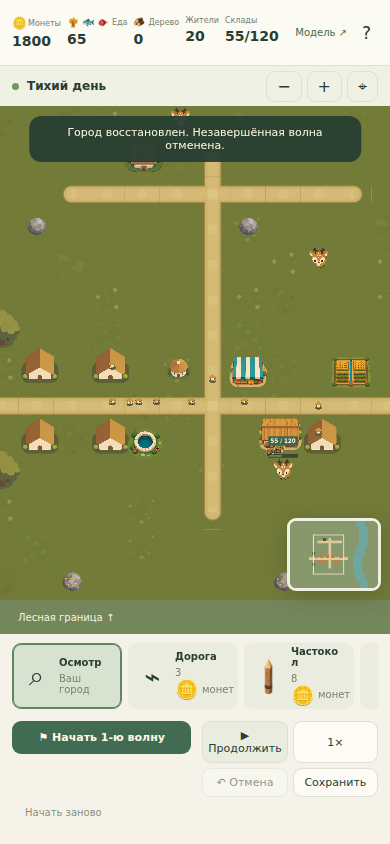
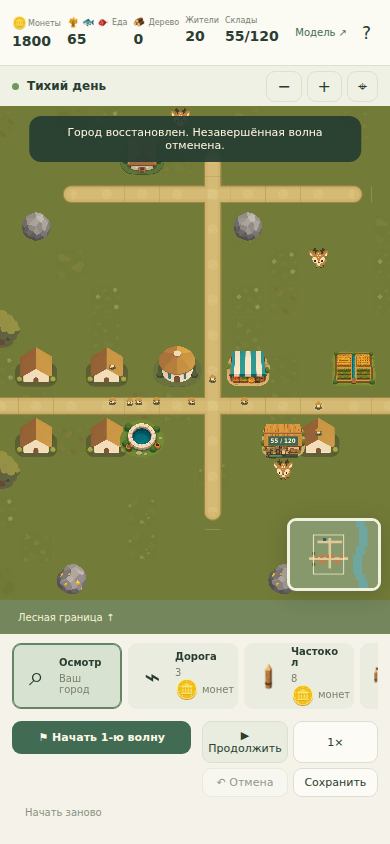
Сделать естественный контур берега и видимый земляной уступ

diff --git a/game.js b/game.js
@@ -45,8 +45,9 @@ city.onShot=(a,b,stats)=>this.shot(a,b,stats);city.onHit=b=>{const s=this.buildi
 }
 createTerrain(){const source=this.textures.get('terrain').getSourceImage(),size=source.width/4;this.waterTiles=[];this.plainGroundCount=0;this.landTileCount=0;this.groundVariants=new Set();const frameAt=(x,y)=>{const t=terrain(x,y),hash=((x*73856093)^(y*19349663))>>>0;if(t==='water')return 12+hash%4;if(t==='sand')return hash%100<80?17:8+(hash>>>8)%4;if(hash%100<82)return 16;return TownSim.forestAt(x,y,city.mapId)?7:1+(hash>>>8)%7;};const textureName='ground-world';if(this.textures.exists(textureName))this.textures.remove(textureName);const texture=this.textures.createCanvas(textureName,W*TILE,H*TILE),ctx=texture.getContext();const patches=[];for(let frame=0;frame<18;frame++){const patch=document.createElement('canvas');patch.width=patch.height=64;const p=patch.getContext('2d');if(frame>=16){p.fillStyle=frame===16?'#737b38':'#c9ab4a';p.fillRect(0,0,64,64);patches.push(patch);continue;}p.globalAlpha=frame<12?.28:1;p.drawImage(source,(frame%4)*size,Math.floor(frame/4)*size,size,size,0,0,64,64);p.globalAlpha=1;p.globalCompositeOperation='destination-in';for(const vertical of [false,true]){const gradient=p.createLinearGradient(0,0,vertical?0:64,vertical?64:0);gradient.addColorStop(0,'rgba(0,0,0,0)');gradient.addColorStop(.16,'black');gradient.addColorStop(.84,'black');gradient.addColorStop(1,'rgba(0,0,0,0)');p.fillStyle=gradient;p.fillRect(0,0,64,64);}p.globalCompositeOperation='destination-over';p.fillStyle=frame<8?'#737b38':frame<12?'#c9ab4a':'#509d9b';p.fillRect(0,0,64,64);patches.push(patch);}const draw=(frame,x,y)=>{if(frame<12||frame>=16)ctx.drawImage(patches[frame],x,y);};
 for(let y=0;y<H;y++)for(let x=0;x<W;x++){const frame=frameAt(x,y);this.groundVariants.add(frame);if(frame>=16)this.plainGroundCount++;if(terrain(x,y)!=='water')this.landTileCount++;draw(frame,x*TILE,y*TILE);if(terrain(x,y)==='water')this.waterTiles.push({x,y,phase:(x*13+y*7)%19});}
-this.createShoreTiles();this.transitionCount=0;for(let y=0;y<H;y++)for(let x=0;x<W;x++){const type=terrain(x,y);if(type!=='water'&&type!=='grass')continue;const same=(nx,ny)=>nx<0||ny<0||nx>=W||ny>=H|| (type==='water'?terrain(nx,ny)==='water':terrain(nx,ny)!=='sand');const offsets=[[0,-1],[1,0],[0,1],[-1,0],[1,-1],[1,1],[-1,1],[-1,-1]];const mask=this.normalizeShoreMask(offsets.reduce((n,[dx,dy],i)=>n+(same(x+dx,y+dy)?1<<i:0),0));if(mask!==255)this.transitionCount++;ctx.drawImage(this.shoreTiles.get(mask),x*TILE,y*TILE);}
-const waterName='water-noise';if(this.textures.exists(waterName))this.textures.remove(waterName);this.waterTexture=this.textures.createCanvas(waterName,64,64);this.waterPixels=this.waterTexture.getContext().createImageData(64,64);this.waterNoiseTick=-1;this.waterSurface=this.add.tileSprite(0,0,W*TILE,H*TILE,waterName).setOrigin(0).setDepth(-1).setTileScale(2,2);this.refreshWaterNoise();texture.refresh();this.terrainLayer=this.add.image(0,0,textureName).setOrigin(0);this.waterFX=this.add.graphics().setDepth(.5);}
+this.createShoreTiles();this.transitionCount=0;for(let y=0;y<H;y++)for(let x=0;x<W;x++){const type=terrain(x,y);if(type!=='grass')continue;const same=(nx,ny)=>nx<0||ny<0||nx>=W||ny>=H|| (type==='water'?terrain(nx,ny)==='water':terrain(nx,ny)!=='sand');const offsets=[[0,-1],[1,0],[0,1],[-1,0],[1,-1],[1,1],[-1,1],[-1,-1]];const mask=this.normalizeShoreMask(offsets.reduce((n,[dx,dy],i)=>n+(same(x+dx,y+dy)?1<<i:0),0));if(mask!==255)this.transitionCount++;ctx.drawImage(this.shoreTiles.get(mask),x*TILE,y*TILE);}
+this.shapeRaisedCoast(ctx);const waterName='water-noise';if(this.textures.exists(waterName))this.textures.remove(waterName);this.waterTexture=this.textures.createCanvas(waterName,64,64);this.waterPixels=this.waterTexture.getContext().createImageData(64,64);this.waterNoiseTick=-1;this.waterSurface=this.add.tileSprite(0,0,W*TILE,H*TILE,waterName).setOrigin(0).setDepth(-1).setTileScale(2,2);this.refreshWaterNoise();texture.refresh();this.terrainLayer=this.add.image(0,0,textureName).setOrigin(0);this.waterFX=this.add.graphics().setDepth(-.5);}
+shapeRaisedCoast(ctx){const width=W*TILE,height=H*TILE,scale=4,cw=width/scale,ch=height/scale;const field=document.createElement('canvas');field.width=cw;field.height=ch;const f=field.getContext('2d');f.fillStyle='black';f.fillRect(0,0,cw,ch);f.fillStyle='white';for(let y=0;y<H;y++)for(let x=0;x<W;x++)if(terrain(x,y)!=='water')f.fillRect(x*16,y*16,16,16);const smooth=document.createElement('canvas');smooth.width=cw;smooth.height=ch;const sc=smooth.getContext('2d');sc.filter='blur(6px)';sc.drawImage(field,0,0);const data=sc.getImageData(0,0,cw,ch).data;const value=(x,y)=>{x=Math.max(0,Math.min(cw-1,x));y=Math.max(0,Math.min(ch-1,y));const ix=Math.floor(x),iy=Math.floor(y),fx=x-ix,fy=y-iy,at=(a,b)=>data[(Math.min(ch-1,b)*cw+Math.min(cw-1,a))*4];return at(ix,iy)*(1-fx)*(1-fy)+at(ix+1,iy)*fx*(1-fy)+at(ix,iy+1)*(1-fx)*fy+at(ix+1,iy+1)*fx*fy;};const mask=document.createElement('canvas');mask.width=width;mask.height=height;const mc=mask.getContext('2d'),pixels=mc.createImageData(width,height);for(let y=0;y<height;y++)for(let x=0;x<width;x++){const bend=9*Math.sin(x/83+y/127)+5*Math.sin(x/39-y/61);const v=value(x/4,y/4)-127+bend,i=(y*width+x)*4;pixels.data[i]=pixels.data[i+1]=pixels.data[i+2]=255;pixels.data[i+3]=Math.max(0,Math.min(255,128+v*20));}mc.putImageData(pixels,0,0);this.coastMask=mask;ctx.globalCompositeOperation='destination-over';ctx.fillStyle='#c9ab4a';ctx.fillRect(0,0,width,height);ctx.globalCompositeOperation='destination-in';ctx.drawImage(mask,0,0);ctx.globalCompositeOperation='source-over';const top=document.createElement('canvas');top.width=width;top.height=height;top.getContext('2d').drawImage(ctx.canvas,0,0);ctx.clearRect(0,0,width,height);const layer=(offset,color)=>{const bank=document.createElement('canvas');bank.width=width;bank.height=height;const b=bank.getContext('2d');b.drawImage(mask,0,offset);b.globalCompositeOperation='source-in';b.fillStyle=color;b.fillRect(0,0,width,height);ctx.drawImage(bank,0,0);};layer(12,'rgba(39,83,68,.32)');layer(8,'#80683e');layer(4,'#9c8045');ctx.drawImage(top,0,0);this.coastHeight=8;}
 animateWater(){this.refreshWaterNoise();const g=this.waterFX;g.clear();const view=this.cameras.main.worldView;for(const tile of this.waterTiles){const x=tile.x*TILE,y=tile.y*TILE;if(x<view.x-64||x>view.right+64||y<view.y-64||y>view.bottom+64)continue;for(let j=0;j<2;j++){const phase=tile.phase*1.713+j*2.39,t=(city.time*.12+phase)%1,alpha=Math.sin(t*Math.PI)*(.32+j*.08),cx=x+21+j*20+Math.sin(phase+city.time*.35)*4,cy=y+17+j*24+(t-.5)*9,width=7+(Math.sin(phase*3)+1)*4;for(const [offset,color,strength]of [[2,0x347f8e,.18],[0,0xc6ece0,alpha]]){g.lineStyle(1.5,color,strength*Math.sin(t*Math.PI));g.beginPath();g.moveTo(cx-width,cy+offset);for(let k=1;k<=8;k++){const u=k/8;g.lineTo(cx-width+width*2*u,cy+offset+Math.sin(u*Math.PI)*2.5);}g.strokePath();}}}}
 normalizeShoreMask(mask){for(const [diag,a,b]of [[16,1,2],[32,2,4],[64,4,8],[128,8,1]])if(!(mask&a)||!(mask&b))mask&=~diag;return mask;}
 shorePath(ctx,mask){const raw=ctx,warp=(x,y)=>{const envelope=Math.sin(x*Math.PI/64)**2*Math.sin(y*Math.PI/64)**2;return [x+16*Math.sin(y*Math.PI/32)*envelope,y+16*Math.sin(x*Math.PI/32)*envelope];};let point=[0,0];ctx={beginPath:()=>raw.beginPath(),moveTo:(x,y)=>{point=[x,y];raw.moveTo(...warp(x,y));},lineTo:(x,y)=>{const a=point;for(let i=1;i<=24;i++){const t=i/24;raw.lineTo(...warp(a[0]+(x-a[0])*t,a[1]+(y-a[1])*t));}point=[x,y];},quadraticCurveTo:(cx,cy,x,y)=>{const a=point;for(let i=1;i<=24;i++){const t=i/24,u=1-t;raw.lineTo(...warp(u*u*a[0]+2*u*t*cx+t*t*x,u*u*a[1]+2*u*t*cy+t*t*y));}point=[x,y];},closePath:()=>raw.closePath()};const n=!!(mask&1),e=!!(mask&2),s=!!(mask&4),w=!!(mask&8),top=n?0:12,right=e?64:52,bottom=s?64:52,left=w?0:12;const radius=(a,b,diag)=>(!a&&!b||a&&b&&!diag)?12:0,ne=radius(n,e,mask&16),se=radius(s,e,mask&32),sw=radius(s,w,mask&64),nw=radius(n,w,mask&128);ctx.beginPath();ctx.moveTo(left+nw,top);ctx.lineTo(right-ne,top);ctx.quadraticCurveTo(n&&e?right-ne:right,n&&e?top+ne:top,right,top+ne);ctx.lineTo(right,bottom-se);ctx.quadraticCurveTo(s&&e?right-se:right,s&&e?bottom-se:bottom,right-se,bottom);ctx.lineTo(left+sw,bottom);ctx.quadraticCurveTo(s&&w?left+sw:left,s&&w?bottom-sw:bottom,left,bottom-sw);ctx.lineTo(left,top+nw);ctx.quadraticCurveTo(n&&w?left+nw:left,n&&w?top+nw:top,left+nw,top);ctx.closePath();}

diff --git a/docs/art-camera-and-shores.md b/docs/art-camera-and-shores.md
@@ -8,6 +8,6 @@
 
 Генератор иногда размещает фигуру за границей номинальной ячейки. scripts/art-frame-bounds.cjs находит крупный связный силуэт каждого объекта по альфе, сохраняет только прямоугольники выборки в art-frames-v1.json. Он не меняет исходные PNG. Phaser, каталог и иконки выбирают нужный кадр по этим прямоугольникам; соседние кусочки не показываются. Цвет и альфа исходного растра сохраняются. WebP — только кодирование без потерь; encode-assets проверяет все видимые пиксели. Список SHA исходных атласов и параметры выборки — qa/art-frame-bounds-result.json.
 
-Берег по-прежнему использует все 47 совместимых масок. Внутри клетки контур мягко деформирован, у краёв деформация и её производная затухают: соседние тайлы сходятся. Добавлены лёгкий светлый край песка и редкие небольшие камешки, без новых ярких цветов. Контуры повторяются по базовым маскам; форма водоёма остаётся определённой игровой сеткой. Проверено 65 536 совместимых краевых образцов на каждой из двух ширин экрана; все четыре карты загружаются.
+Берег воды строится единым контуром всей карты: маска суши сглаживается на уменьшенном холсте, граница получает плавную деформацию в мировых координатах. Сетка не разрывает берег на повторяющиеся скруглённые прямоугольники. Под верхней поверхностью проходит земляной уступ высотой 8 пикселей, обращённый к зрителю, и мягкая тень у воды. Волны рисуются ниже суши и уступа. Цвета остаются оливковыми и охристыми. Игровая география сохраняет клетки; центры всех клеток проверяются на совпадение с визуальной сушей/водой. 47 совместимых масок сохранены для переходов травы и песка; старый тест их стыков отдельно проверяет 65 536 образцов.
 
 При смене источника атласа пересоберите WebP, прямоугольники выборки и каталог командами scripts/encode-assets.cjs, scripts/art-frame-bounds.cjs и scripts/art-catalog.cjs. Прямоугольники кадров нужны и в основной игре, и в иконках/галерее. Исходный холст сохраняется для будущих анимаций; игровая выборка не заменяет его.
